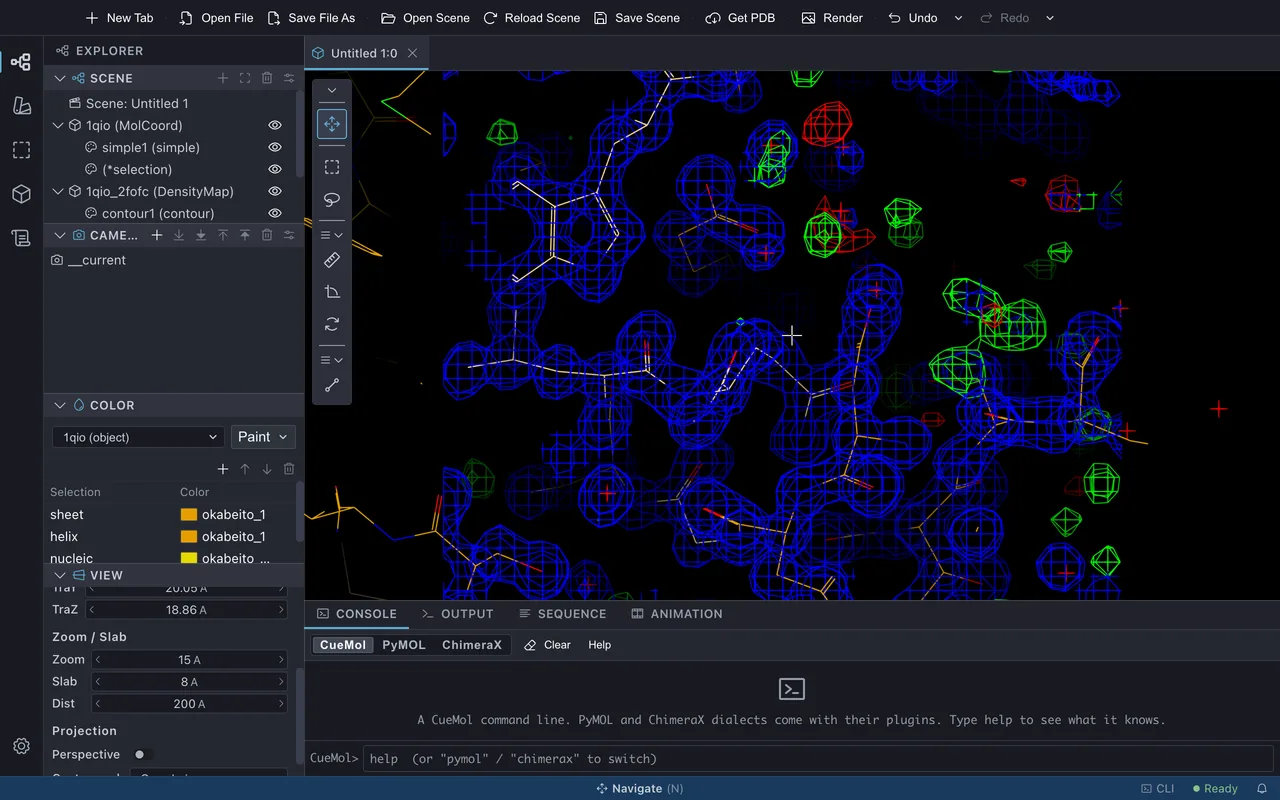
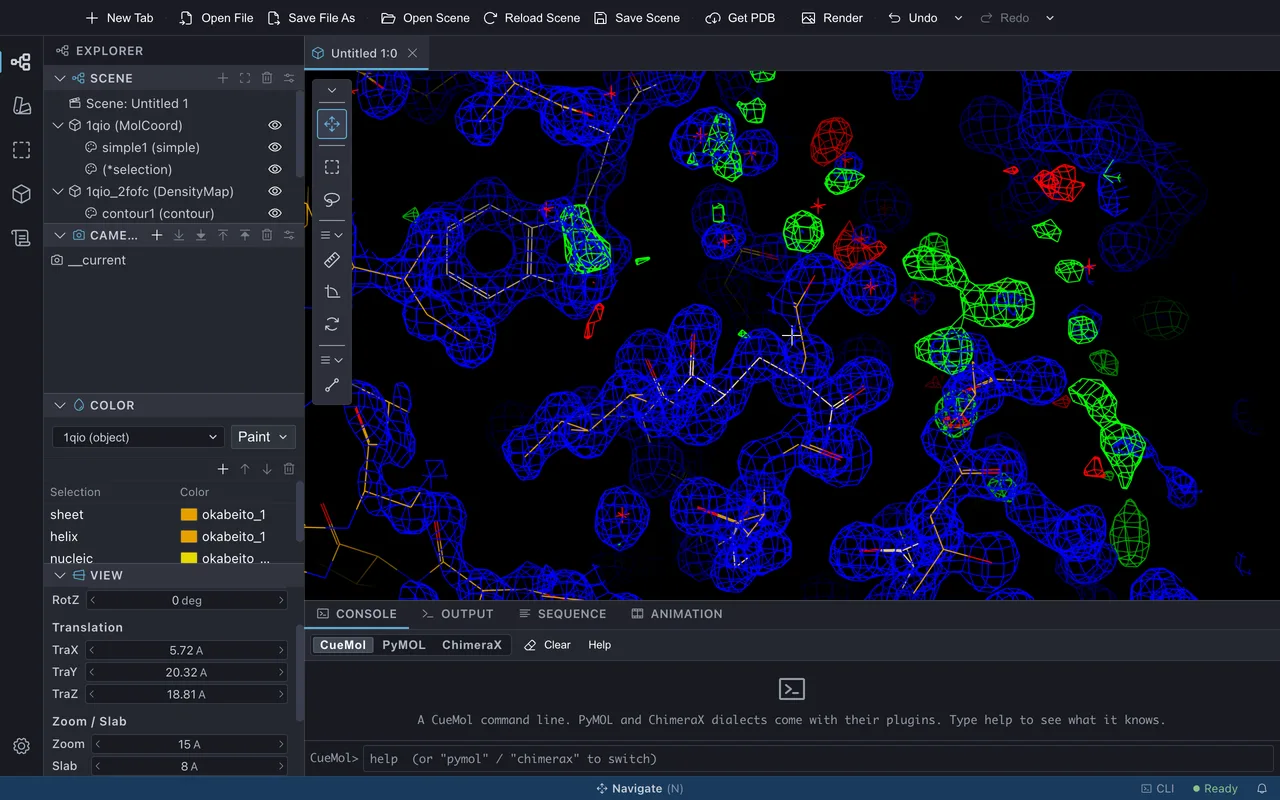
Turn the density map tutorial shots off the cell axis
The default view looks down a cell axis, which flattens the map box and the mesh. The spec now turns the view a little before the shots; the page is unchanged.

diff --git a/docs-verify/specs/experimental/density-map.spec.ts b/docs-verify/specs/experimental/density-map.spec.ts
@@ -12,7 +12,7 @@ import { checkField } from '../../helpers/form';
 import { expectRow, rowVisibilityToggle, toggleRowVisibility } from '../../helpers/sceneTree';
 import { densityPane, levelInput, selectMapRenderer, setDragRow, setLevel } from '../../helpers/densityPane';
 import { molStructPane, setupSelectionPage } from '../../fixtures/courseSelection';
-import { setViewValue, viewValueText } from '../../helpers/viewPane';
+import { enterViewValue, setViewValue, viewValueText } from '../../helpers/viewPane';
 import { openSidebarView } from '../../helpers/sidebar';
 import { runConsole, clearConsole } from '../../helpers/console';
 import { docShot, sidebarRect, thumbShot } from '../../helpers/docShot';
@@ -87,6 +87,11 @@ test.describe.serial('電子密度マップの表示', { tag: '@net' }, () => {
         // 「目のアイコンで個別に表示・非表示を切り替えられます」
         await expect(rowVisibilityToggle(w, '1qio_2fofc')).toBeVisible();
         // 「マップは、取得したときのビュー中心 (先に読み込んだ分子) の周りに描かれます。視点は動きません。」
+        // Not in the page: the default view looks down a cell axis, which flattens
+        // the map box and the mesh, so the shots of this page are taken a little
+        // turned (the later steps keep this rotation).
+        await enterViewValue(w, 'RotY', 30);
+        await enterViewValue(w, 'RotX', 20);
         await docShot(w, `${SHOT}/2-loaded`);
     });
 

diff --git a/CLAUDE.md b/CLAUDE.md
@@ -625,7 +625,9 @@ Version 表示と同じ値なので、ユーザーは手元のビルドと直接
   tritium_cli で流し、RMSD (7.13 / 1.98 / 0.51 Å)・`2ocj/cartoon2`・選択が残らないこと・スクリプトの末尾の
   `save_scene` での保存 (後ろに続けるとエラー) が本文どおり。`set_anim_prop` の名前の検証と `list_anim_props`、
   MD トラジェクトリの 5 コマンド (Dropbox の `test_data/traj_test` の psf + dcd) と History への記録も確認した。
-  density-map の spec を流して `2-loaded` などを撮り直した (4 件 pass)。
+  density-map の spec を流して `2-loaded` などを撮り直した (4 件 pass)。既定の向きでは格子軸と視線が揃い
+  立体感が出ないので、spec の手順 2 の撮影前に View パネルで RotY 30・RotX 20 だけ回してから撮る
+  (ユーザー指示。本文には回す手順を書かない)。
 
 ## E2E 検証と画像生成 (docs-verify/)
 
